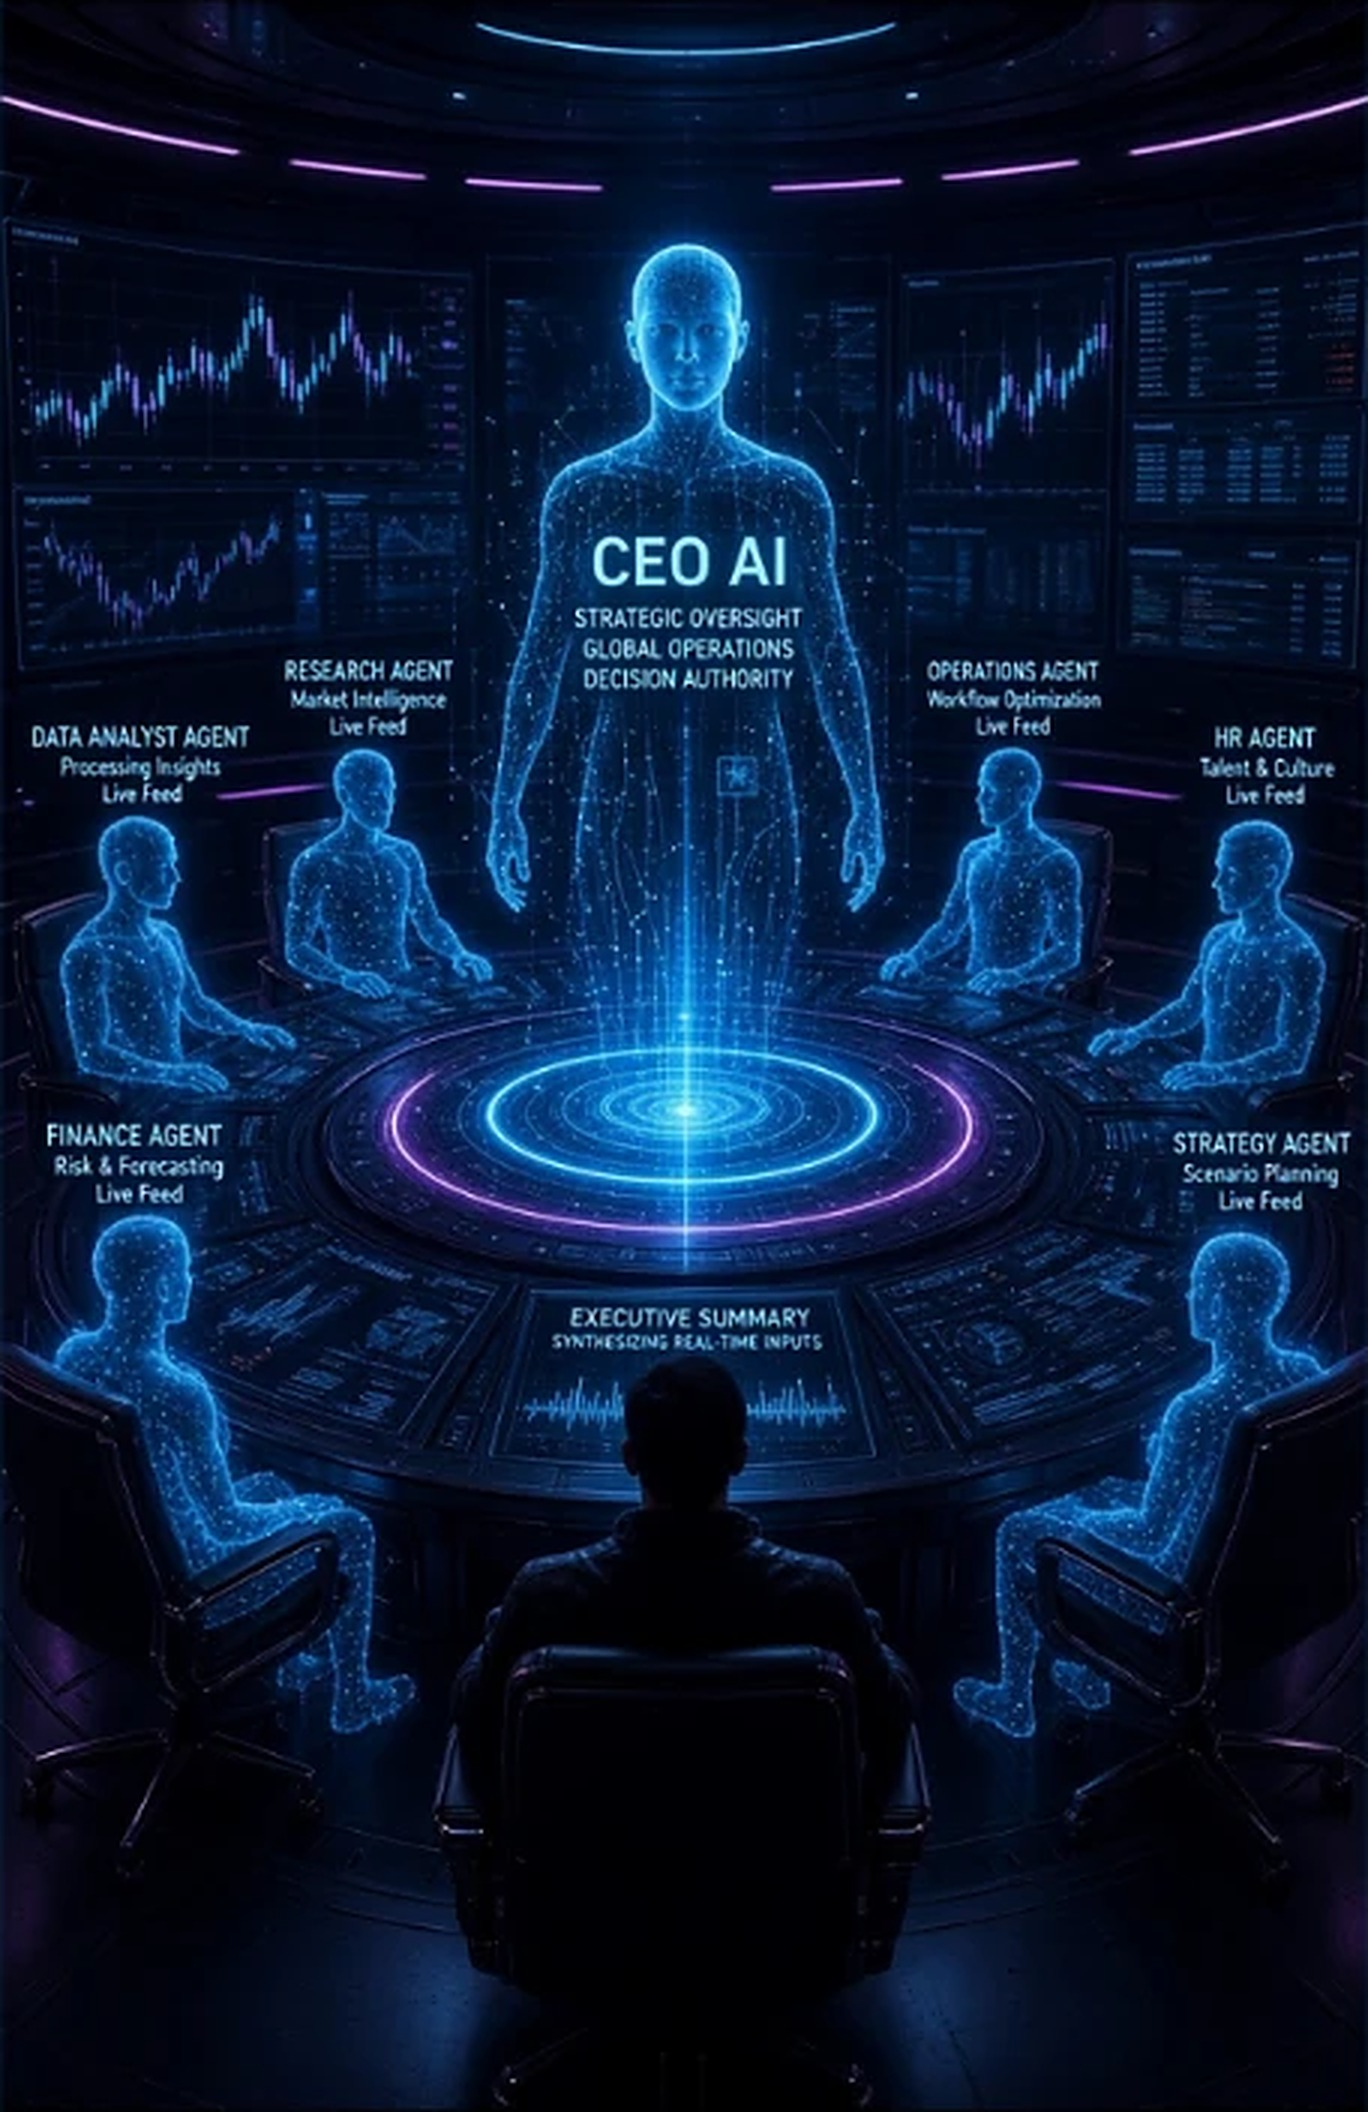
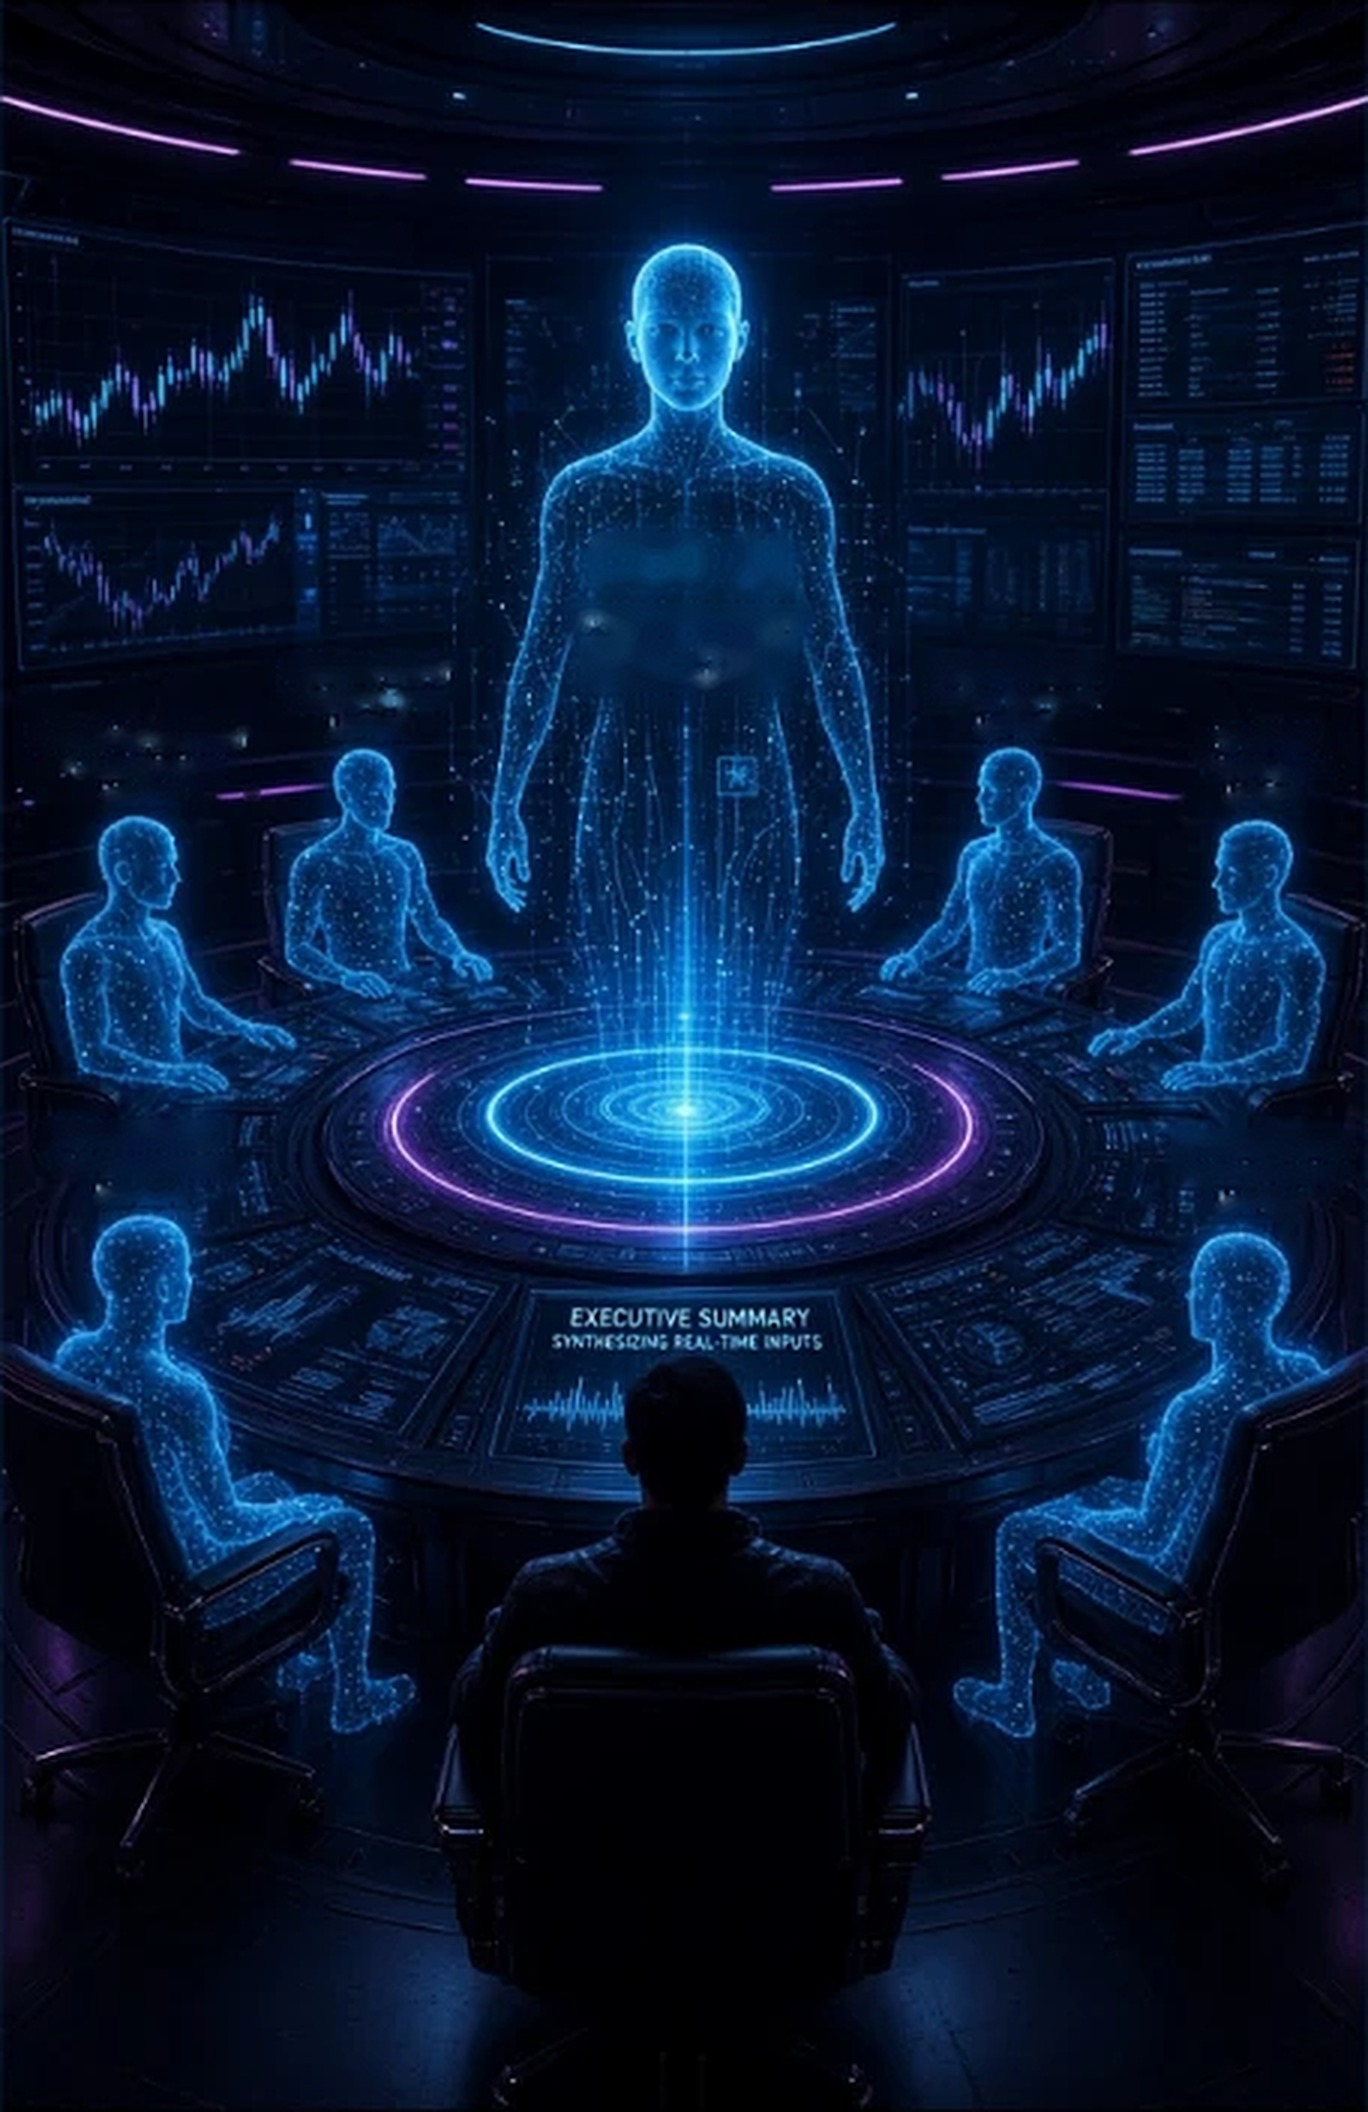
feat(web3d): paint out the picture's baked-in text; crisp CEO and agent labels drawn on top

diff --git a/web3d/src/styles.css b/web3d/src/styles.css
@@ -80,8 +80,7 @@ button:disabled { opacity: .5; cursor: default; }
 @keyframes spin { to { transform: rotate(360deg); } }
 .seatlabel {
   position: absolute; display: flex; flex-direction: column; align-items: center; justify-content: center; text-align: center;
-  background: radial-gradient(ellipse at center, rgba(3, 8, 22, .97) 55%, rgba(3, 8, 22, .85) 80%, rgba(3, 8, 22, 0) 100%);
-  border-radius: 6px; line-height: 1.15; pointer-events: none;
+  line-height: 1.2; pointer-events: none; text-shadow: 0 0 4px #000, 0 0 8px rgba(0, 0, 0, .9);
 }
 .seatlabel b { color: #fff; font-size: 1.32cqh; letter-spacing: .02em; text-shadow: 0 0 6px rgba(120, 200, 255, .8); white-space: nowrap; }
 .seatlabel span { color: #8fd2ff; font-size: 1.12cqh; white-space: nowrap; }
@@ -92,4 +91,7 @@ button:disabled { opacity: .5; cursor: default; }
 .screentag { position: absolute; left: 4%; top: 6%; display: flex; gap: .6em; align-items: baseline; padding: .15em .5em; background: rgba(4, 14, 34, .85); border: 1px solid rgba(108, 200, 255, .6); border-radius: 3px; color: #fff; font: 700 1.25cqh/1.2 system-ui, sans-serif; letter-spacing: .14em; }
 .screentag em { font-style: normal; font-size: .8em; color: #2fd27a; letter-spacing: .05em; }
 @media (prefers-reduced-motion: reduce) { .stream, .pulse, .ringspin { animation: none; } }
+.ceolabel { position: absolute; display: flex; flex-direction: column; align-items: center; justify-content: center; pointer-events: none; text-align: center; line-height: 1.25; }
+.ceolabel b { white-space: nowrap; font: 600 4.1cqh/1.1 system-ui, "Segoe UI", sans-serif; color: #eaf8ff; letter-spacing: .04em; text-shadow: 0 0 10px rgba(120, 210, 255, .95), 0 0 2px #fff; }
+.ceolabel span { font-size: 1.15cqh; color: #d4f0ff; letter-spacing: .1em; text-shadow: 0 0 6px rgba(80, 170, 255, .9); white-space: nowrap; }
 .seatlabel b.long { font-size: 1.05cqh; }

diff --git a/web3d/src/config/imageRoom.ts b/web3d/src/config/imageRoom.ts
@@ -4,7 +4,7 @@ import type { ComputerId } from '../model/types'
 export interface Rect { x: number; y: number; w: number; h: number }
 export type Pt = [number, number]
 
-/** The room picture (Grok reference, upscaled). All coordinates below are in its original 456 x 704 pixels. */
+/** The room picture: the Grok reference with its baked-in text painted out, upscaled. All coordinates below are in its original 456 x 704 pixels. */
 export const ROOM_IMAGE = { src: '/room.jpg', w: 456, h: 704 }
 
 /** Wall screens that act as the three computers. */
@@ -19,12 +19,14 @@ export const SEAT_SPOTS: Record<string, { label: Rect; chest: Pt }> = {
   scanner: { label: { x: 4, y: 236, w: 88, h: 36 }, chest: [42, 305] },
   strategist: { label: { x: 88, y: 215, w: 70, h: 34 }, chest: [122, 292] },
   backtester: { label: { x: 300, y: 215, w: 74, h: 34 }, chest: [336, 292] },
-  auditor: { label: { x: 382, y: 238, w: 72, h: 36 }, chest: [414, 308] },
+  auditor: { label: { x: 366, y: 238, w: 84, h: 36 }, chest: [414, 308] },
   regime: { label: { x: 6, y: 368, w: 80, h: 34 }, chest: [52, 445] },
   risk: { label: { x: 380, y: 370, w: 74, h: 34 }, chest: [420, 445] },
 }
 
 export const CEO_CHEST: Pt = [228, 205]
+/** Where the CEO's title sits on the chest. */
+export const CEO_LABEL: Rect = { x: 180, y: 172, w: 96, h: 66 }
 export const RING_CENTER: Pt = [228, 360]
 /** Projector beam the CEO stands in (sparkles rise through it). */
 export const BEAM: Rect = { x: 196, y: 70, w: 64, h: 300 }

diff --git a/web3d/src/room/ImageRoom.tsx b/web3d/src/room/ImageRoom.tsx
@@ -1,6 +1,6 @@
 import { useEffect, useMemo } from 'react'
 import { COMPUTERS } from '../config/computers'
-import { CEO_CHEST, RING_CENTER, ROOM_IMAGE, SCREEN_RECTS, SEAT_SPOTS, zoomTo, type Rect } from '../config/imageRoom'
+import { CEO_CHEST, CEO_LABEL, RING_CENTER, ROOM_IMAGE, SCREEN_RECTS, SEAT_SPOTS, zoomTo, type Rect } from '../config/imageRoom'
 import { SEATS } from '../config/seats'
 import type { PanelAction, PanelState } from '../model/panel'
 import { Sparkles } from './Sparkles'
@@ -59,6 +59,9 @@ export function ImageRoom({ panel, dispatch }: Props) {
             })}
           </svg>
           <Sparkles active={panel.phase === 'closed'} />
+          <div className="ceolabel" style={pct(CEO_LABEL)}>
+            <b>CEO AI</b><span>STRATEGIC OVERSIGHT</span><span>FINAL DECISION AUTHORITY</span>
+          </div>
           {SEATS.map(seat => (
             <div key={seat.id} className="seatlabel" style={pct(SEAT_SPOTS[seat.id].label)}>
               <b className={seat.name.length > 14 ? 'long' : ''}>{seat.name}</b><span>{seat.job}</span><span className="live">● Live Feed</span>
